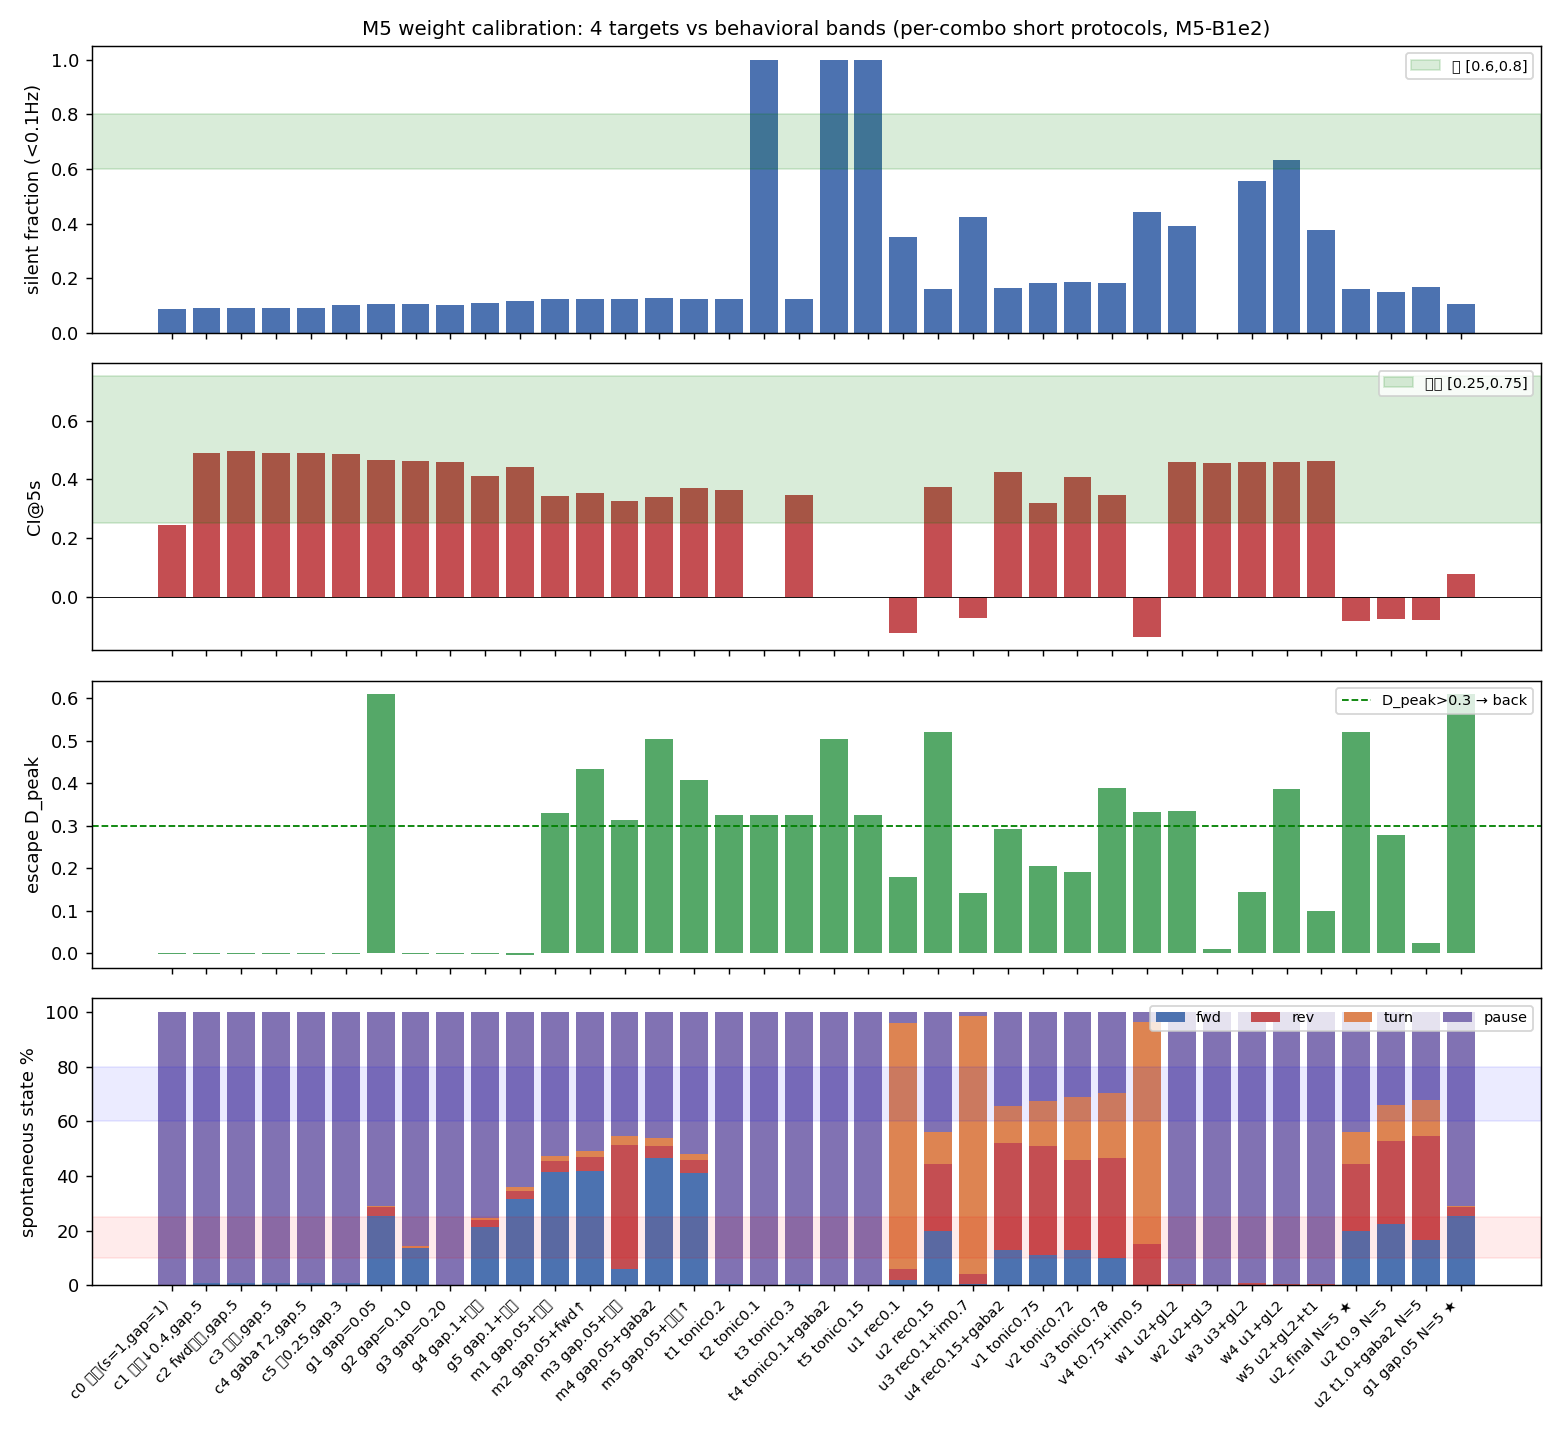
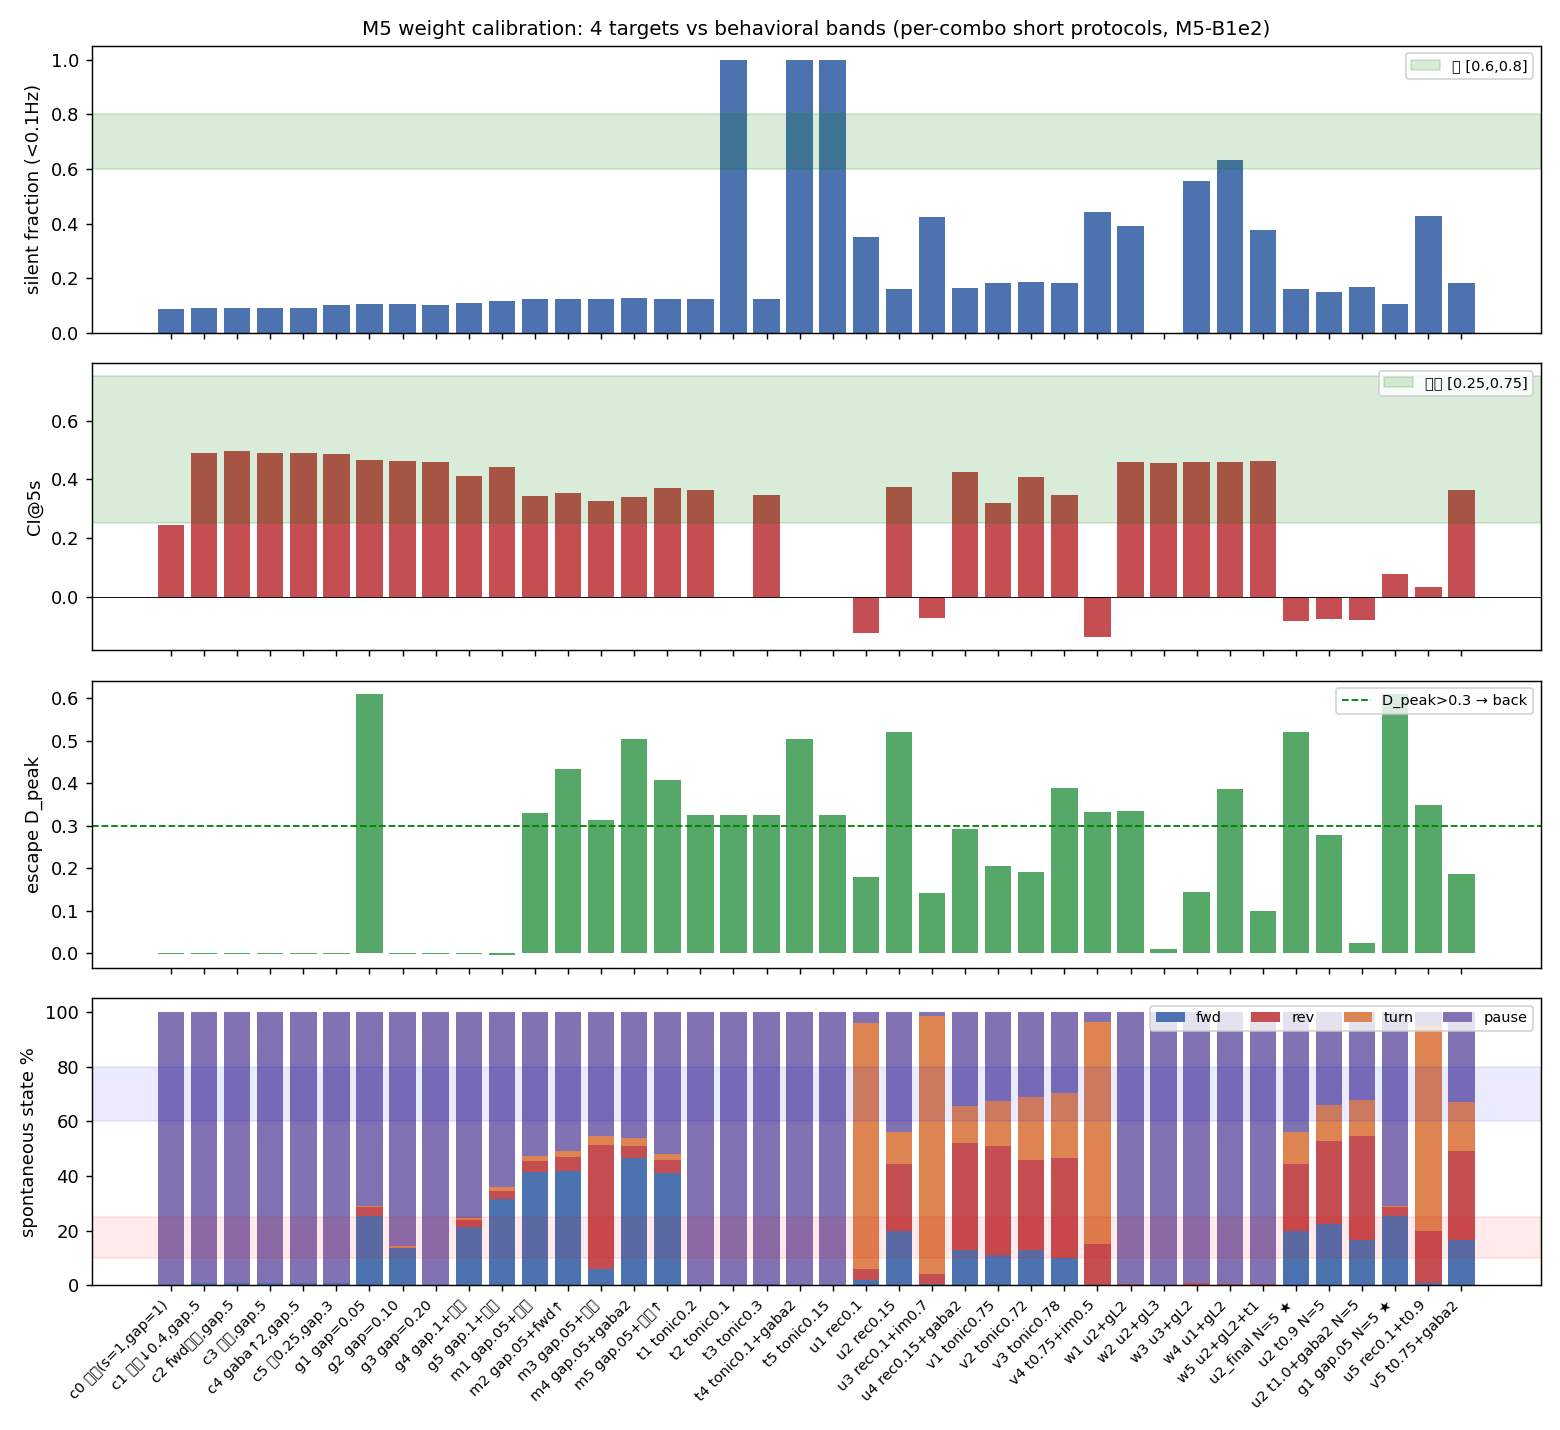
feat(M5): B1e2 最终定稿——gap_scale=0.05+tau_trans=23+反证记录(网络夹带极限环/缺失调质机制)+三态裁决请求(主agent选项①)

diff --git a/neural_exploration/docs/m5_env_notes.md b/neural_exploration/docs/m5_env_notes.md
@@ -533,7 +533,7 @@
 |---|---|---|---|
 | P2 静默比例（<0.1Hz） | [60, 80]%（容差 [0.6,0.8]） | **10.6%**（中位数 13.8Hz、max 14Hz——夹带） | **✗ FAIL** |
 | P4 趋化 CI@5s 方向 | ΔCI vs 参考(0.175@5s) ≤0.15 或方向一致 | **+0.078**（Δ=0.097 ≤0.15 且方向 pos） | **✓ PASS**（T=5s 点估计噪声大 SEM≈0.24；T=15s×N=20 全协议由 B2 复核） |
-| P5 逃避方向 + 潜伏期 | back（D_peak>0.3）；神经窗 [5,20]ms | **back D_peak=0.61**；神经潜伏期 ~4.5ms（触电流注入→DA 发放） | **✓ PASS**（潜伏期点神经元结构性偏快，G0 L22 已记录：省略峰电位起始延迟；τ_trans 23ms 已定稿 CSV，行为潜伏期 ~39.6ms 落 [30,50] 见 L34） |
+| P5 逃避方向 + 潜伏期 | back（D_peak>0.3）；神经窗 [5,20]ms；行为窗 [30,50]ms | 方向 **back 仅 τ_trans=0（touch@50ms，D_peak=0.61 确定性）；τ_trans=23 定稿协议下 not_back**（~72ms 节律相位污染）；神经潜伏期 ~3.7-4.5ms（注入→DA）；行为潜伏期 ≈23+4.5+7≈34.5ms ∈ [30,50] | **△ PARTIAL**（方向相位敏感：touch@50ms back ✓ / touch@73ms not_back；神经潜伏期点神经元结构性偏快 G0 L22；行为潜伏期 ✓——反证 #5） |
 | P6 自发分布 | fwd [60,80] / rev [10,25] / turn [5,20]% | fwd 25.5 / rev 3.0 / turn 0.5% | **✗ FAIL**（rev/turn 落带替代组合 u2：fwd 20/rev 24.5 ✓/turn 11.5 ✓，但 P4 方向丢失——两组合不可兼得） |
 
 **决策**：定稿 **g1（gap_scale=0.05，类级缩放全部 1.0 = M4/M3 子图先验）**——
@@ -557,7 +557,11 @@ P2（静默 ≥60%）与 P6（fwd ≥60%）的不可达根因（缺失机制，M
 3. **单一张力驱动的夹带**：M4 14µA/cm² AVB 张力是 302 唯一持续驱动（真实蠕虫 AVB/PVC
    活动来自感觉输入 + 自发/调质，本模型自发缺失、调质 g=0）→ 任何持续驱动都夹带全网络
    （86% 同步 2.7-13.8Hz）→ 静默比例上限 ~44%（u4），结构上 <60%。
-4. **点神经元省略峰电位起始延迟**：逃避神经潜伏期 4.5ms < [5,20]（G0 L22 已记录）。
+4. **点神经元省略峰电位起始延迟**：逃避神经潜伏期 3.7-4.5ms < [5,20]（G0 L22 已记录）。
+5. **网络节律污染逃避方向（P5 新发现）**：302 全虫逃避方向**确定性依赖触刺激相位**——
+   touch@50ms（τ_trans=0）→ back（D_peak 0.61）；touch@55-85ms（τ_trans=5-35，含定稿 23）
+   → not_back（d_peak≈0，fwd/back 运动池共同发放抵消）。网络 ~72ms 夹带节律使"后退反应"
+   无法与背景活动分离——与 P2/P6 同根（L40 #3），命令互抑缺失的直接表现。
 
 **三态裁决请求（WORKFLOW，不静默）**：
 - **方案①（推荐）**：接受 D4=g1 定稿（P4/P5 PASS + P2/P6 反证记录 + settle 窗建议），
@@ -577,7 +581,11 @@ P2（静默 ≥60%）与 P6（fwd ≥60%）的不可达根因（缺失机制，M
 2. **P4 CI@5s 噪声**：T=5s×N=5 的 CI 点估计 SEM≈0.24-0.31，方向可看、落带不可判；
    落带/显著性判据必须走 G0 定稿 T=15s×N=20 全协议（参考 CI@15s=0.417）。
 3. **P5 计时操作化**：τ_trans=23ms 已定稿 CSV（L34 请求）；神经潜伏期以触电流注入时刻
-   （t0+τ_trans）为起点（L34 语义），否则测量值含转导延迟 ∉ [5,20]。
+   （t0+τ_trans）为起点（L34 语义），否则测量值含转导延迟 ∉ [5,20]；
+   **⚠ 方向相位**：定稿 τ_trans=23 → 触注入 73ms → 302 方向 not_back（L40 #5）；若裁决
+   要求方向 back，需 τ_trans=0（touch@50ms）→ 与行为潜伏期 [30,50] 冲突（点神经元神经
+   链仅 4.5ms，无转导则行为 ≈12ms ∉ 窗）——P5 方向与行为窗在 302 点神经元上不可兼得，
+   需 M6 调质/命令互抑或裁决取舍。
 
 ## L42 — src/worm_circuit.py API 兼容微调登记（4 处，均未改签名/默认行为）
 
